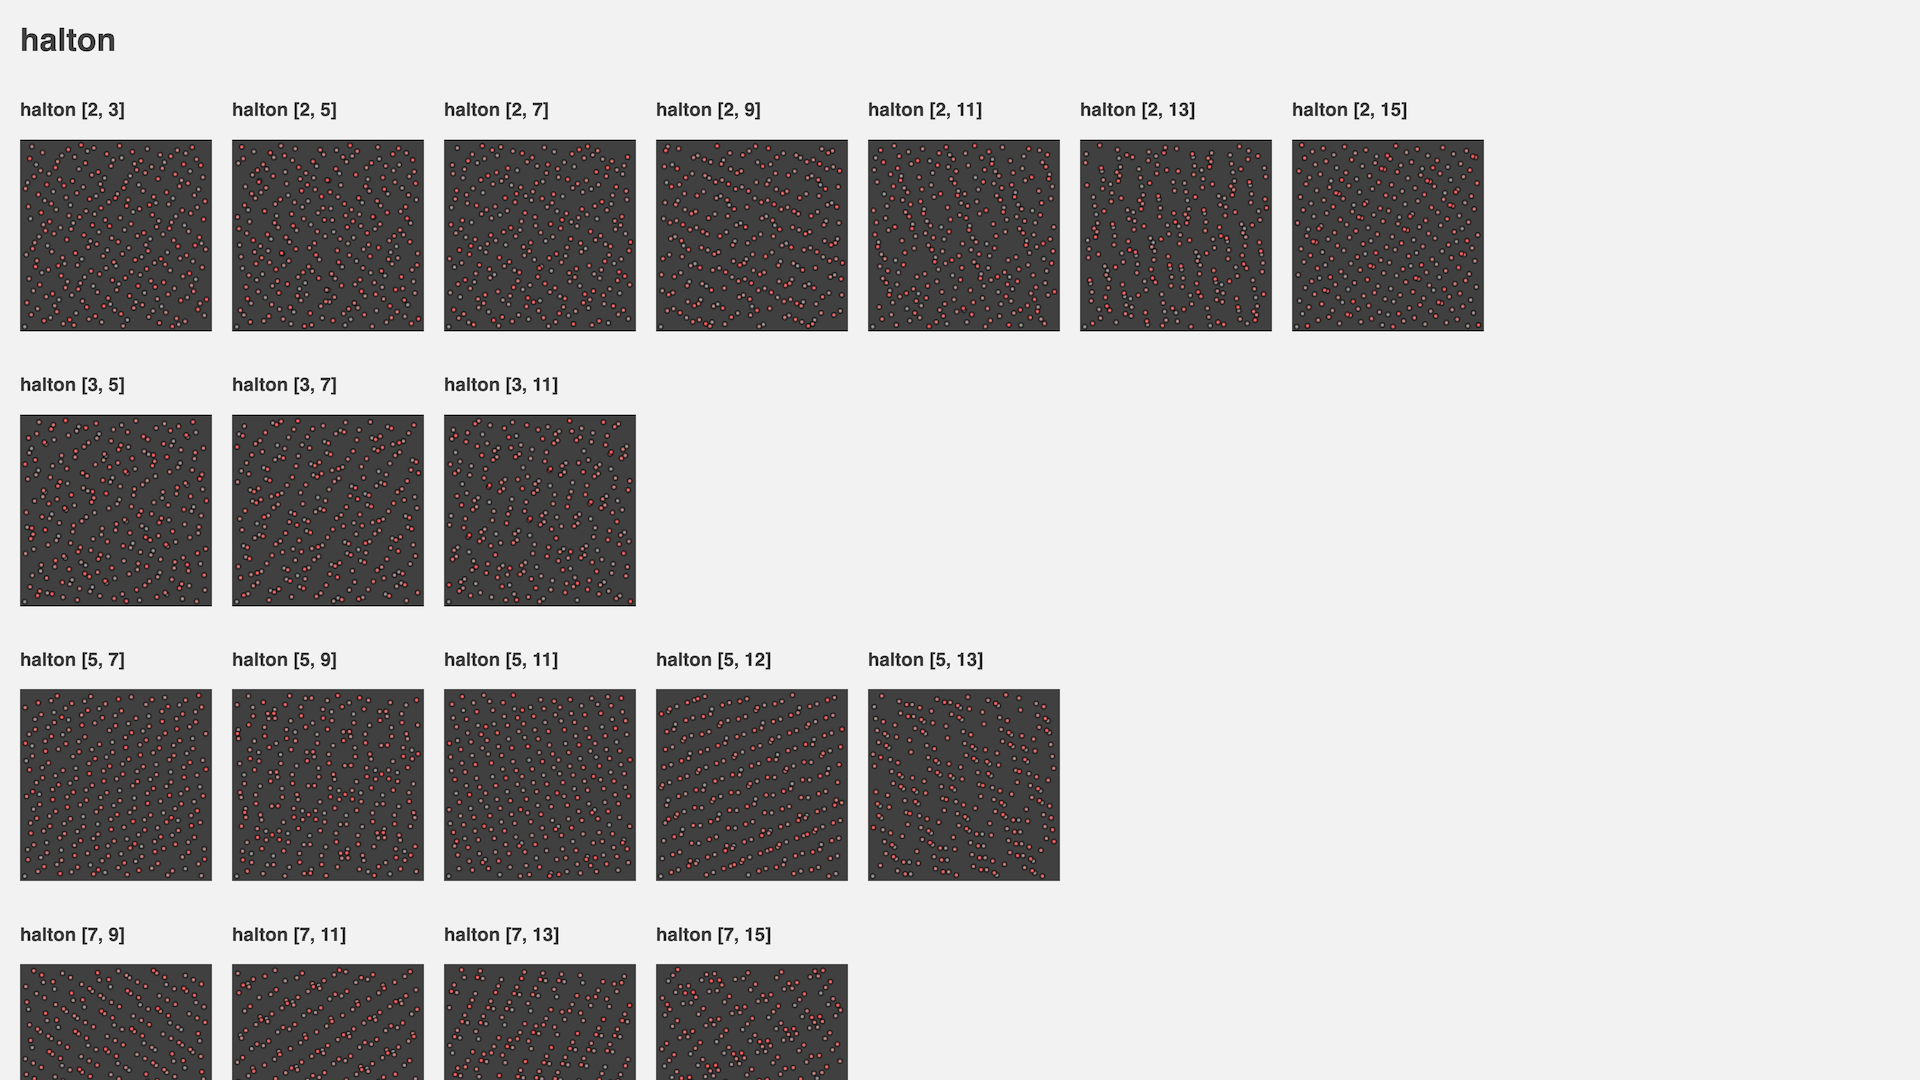
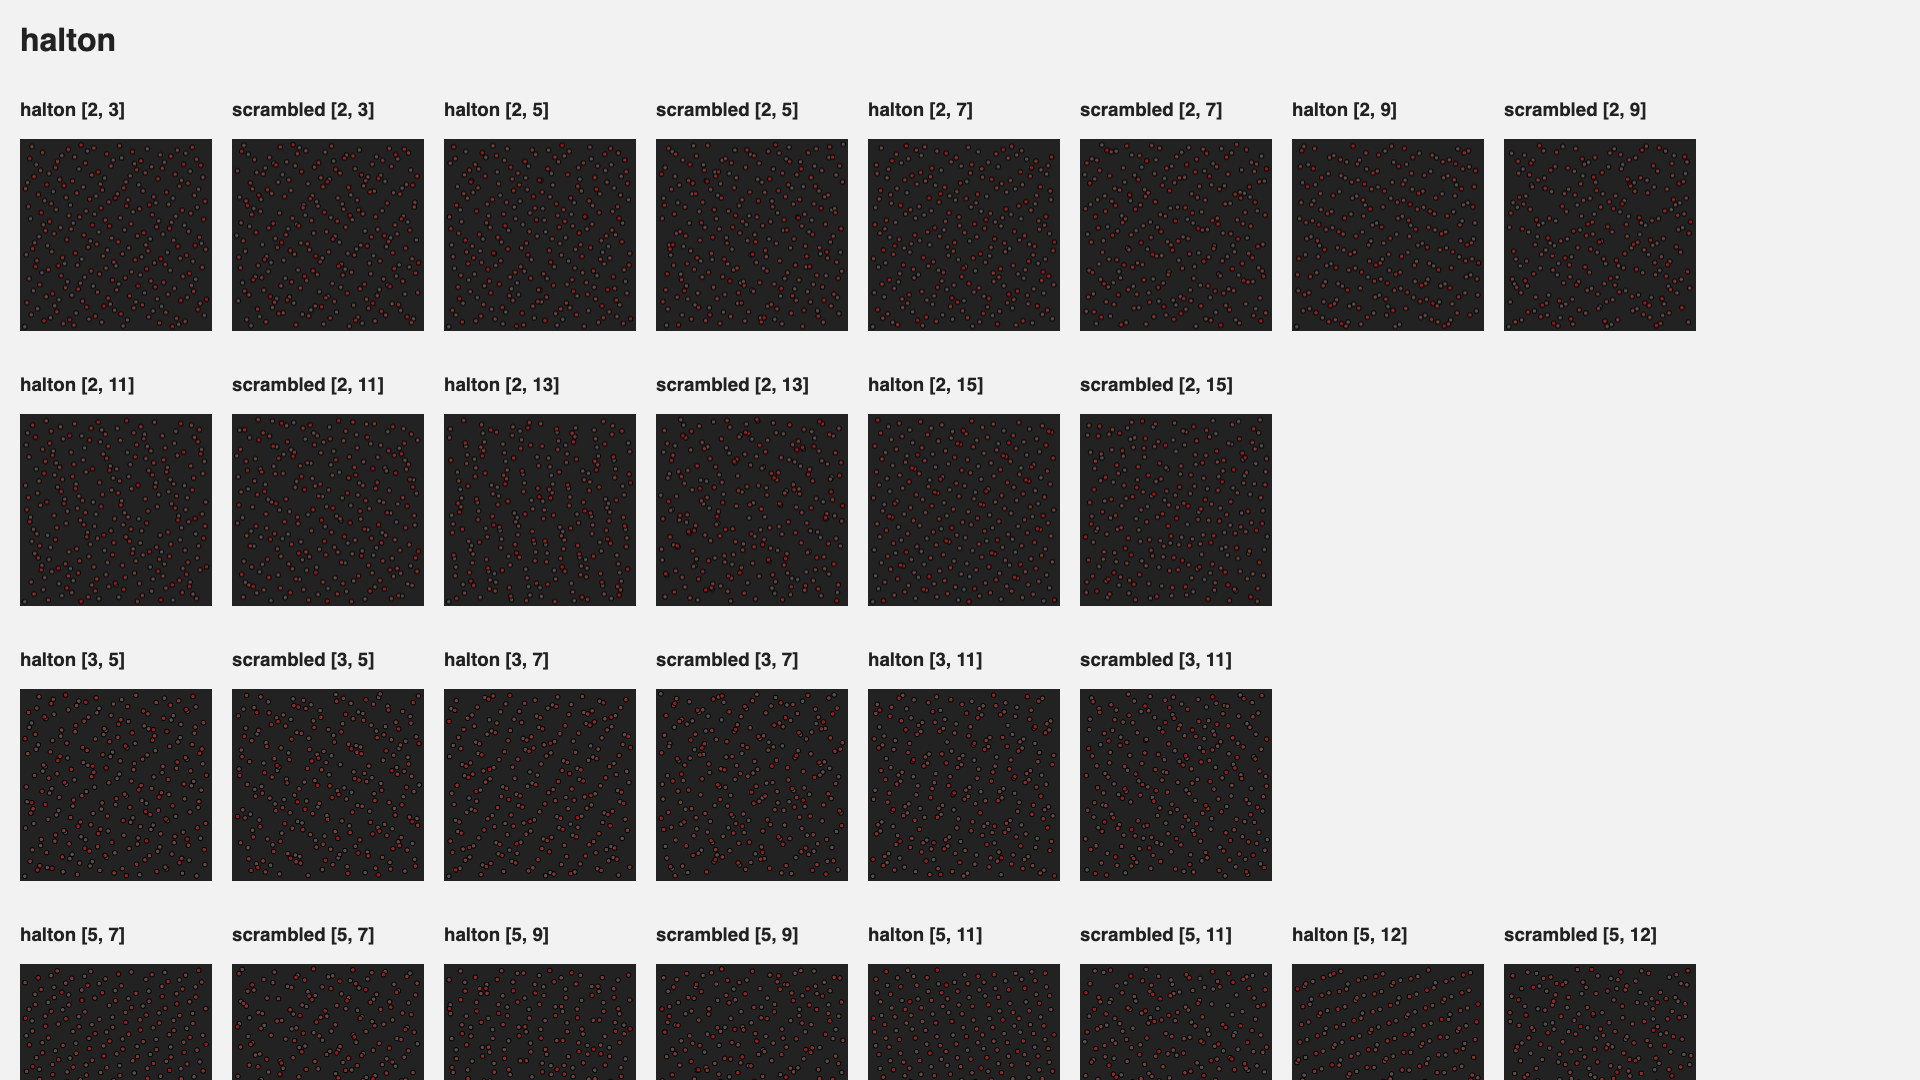
feat: add scrambled halton sequence with digit permutations
- add createPermutations and an optional permutation argument to haltonSequence/halton
- fix radical inverse rounding and support for indices above 32 bits

diff --git a/test/index.js b/test/index.js
@@ -1,0 +1,167 @@
+import test from "node:test";
+import assert from "node:assert";
+
+import halton, { haltonSequence, createPermutations } from "../index.js";
+
+// No intermediate rounding: only the final conversion to a double.
+const exactRadicalInverse = (index, base, permutation) => {
+  const b = BigInt(base);
+  let n = BigInt(index);
+  let numerator = 0n;
+  let denominator = 1n;
+
+  while (n > 0n) {
+    const digit = Number(n % b);
+    numerator =
+      numerator * b + BigInt(permutation ? permutation[digit] : digit);
+    denominator *= b;
+    n /= b;
+  }
+
+  if (!permutation) return Number(numerator) / Number(denominator);
+
+  return (
+    Number(numerator * (b - 1n) + BigInt(permutation[0])) /
+    Number(denominator * (b - 1n))
+  );
+};
+
+const mulberry32 = (seed) => () => {
+  seed = (seed + 0x6d2b79f5) | 0;
+  let t = Math.imul(seed ^ (seed >>> 15), 1 | seed);
+  t = (t + Math.imul(t ^ (t >>> 7), 61 | t)) ^ t;
+  return ((t ^ (t >>> 14)) >>> 0) / 4294967296;
+};
+
+const bases = [2, 3, 5, 7, 11, 13, 101];
+
+test("should return the first points with default bases", () => {
+  assert.deepStrictEqual(halton(4), [
+    [0, 0],
+    [0.5, 0.3333333333333333],
+    [0.25, 0.6666666666666666],
+    [0.75, 0.1111111111111111],
+  ]);
+});
+
+test("should generate count points of bases.length dimensions", () => {
+  const points = halton(10, [2, 3, 5]);
+  assert.strictEqual(points.length, 10);
+  for (const point of points) assert.strictEqual(point.length, 3);
+});
+
+test("should compute a correctly rounded radical inverse", () => {
+  for (const base of bases) {
+    for (let index = 0; index < 5000; index++) {
+      assert.strictEqual(
+        haltonSequence(index, base),
+        exactRadicalInverse(index, base),
+        `index ${index}, base ${base}`,
+      );
+    }
+  }
+});
+
+test("should support indices above 32 bits", () => {
+  for (const index of [2 ** 31, 3 * 2 ** 32 + 1, 2 ** 40 + 7]) {
+    for (const base of bases) {
+      assert.strictEqual(
+        haltonSequence(index, base),
+        exactRadicalInverse(index, base),
+        `index ${index}, base ${base}`,
+      );
+    }
+  }
+});
+
+test("should match the base 2 fast path", () => {
+  const points = halton(1024, [2]);
+  for (let index = 0; index < points.length; index++) {
+    assert.strictEqual(points[index][0], haltonSequence(index, 2));
+  }
+});
+
+test("should leave the sequence unchanged with identity permutations", () => {
+  const identities = bases.map((base) =>
+    Array.from({ length: base }, (_, digit) => digit),
+  );
+  assert.deepStrictEqual(halton(512, bases, identities), halton(512, bases));
+});
+
+test("should compute the scrambled radical inverse", () => {
+  const permutations = createPermutations(bases, mulberry32(1));
+  bases.forEach((base, i) => {
+    for (let index = 0; index < 5000; index++) {
+      const value = haltonSequence(index, base, permutations[i]);
+      const expected = exactRadicalInverse(index, base, permutations[i]);
+      assert.ok(
+        Math.abs(value - expected) <= Number.EPSILON,
+        `index ${index}, base ${base}: ${value} != ${expected}`,
+      );
+    }
+  });
+});
+
+test("should keep scrambled values in [0, 1)", () => {
+  // permutation[0] = base - 1 produces the largest values and hits the clamp.
+  for (const base of bases) {
+    const reversed = Array.from(
+      { length: base },
+      (_, digit) => base - 1 - digit,
+    );
+    for (let index = 0; index < 1000; index++) {
+      const value = haltonSequence(index, base, reversed);
+      assert.ok(value >= 0 && value < 1, `index ${index}, base ${base}`);
+    }
+  }
+});
+
+test("should scramble base 2 with a permutation", () => {
+  const points = halton(8, [2], [[1, 0]]);
+  for (let index = 1; index < points.length; index++) {
+    assert.strictEqual(points[index][0], 1 - haltonSequence(index, 2));
+  }
+});
+
+test("should preserve stratification when scrambled", () => {
+  const permutations = createPermutations(bases, mulberry32(2));
+  bases.slice(0, -1).forEach((base, i) => {
+    // The first base^k points are evenly spaced by base^-k.
+    const count = base ** Math.floor(Math.log(1000) / Math.log(base));
+    const values = halton(count, [base], [permutations[i]])
+      .map(([x]) => x)
+      .sort((a, b) => a - b);
+    for (let j = 1; j < count; j++) {
+      assert.ok(
+        Math.abs(values[j] - values[j - 1] - 1 / count) < 1e-12,
+        `base ${base}, point ${j}`,
+      );
+    }
+  });
+});
+
+test("should change the sequence when scrambled", () => {
+  const permutations = createPermutations([3, 5], mulberry32(3));
+  assert.notDeepStrictEqual(
+    halton(64, [3, 5], permutations),
+    halton(64, [3, 5]),
+  );
+});
+
+test("should create a valid permutation per base", () => {
+  const permutations = createPermutations(bases);
+  assert.strictEqual(permutations.length, bases.length);
+  bases.forEach((base, i) => {
+    assert.deepStrictEqual(
+      permutations[i].toSorted((a, b) => a - b),
+      Array.from({ length: base }, (_, digit) => digit),
+    );
+  });
+});
+
+test("should create deterministic permutations with a seeded random", () => {
+  assert.deepStrictEqual(
+    createPermutations(bases, mulberry32(4)),
+    createPermutations(bases, mulberry32(4)),
+  );
+});

diff --git a/index.js b/index.js
@@ -2,40 +2,87 @@
 
 import { radicalInverse } from "hammersley";
 
+// Largest double below 1: keeps scrambled values in [0, 1).
+const ONE_MINUS_EPSILON = 1 - Number.EPSILON / 2;
+
 /**
- * The Halton sequence algorithm.
- * @see [Wikipedia Halton_sequence]{@link https://en.wikipedia.org/wiki/Halton_sequence#Implementation}
+ * The Halton sequence algorithm (radical inverse), optionally scrambled with a
+ * digit permutation.
+ *
  * @param {number} index Index in the sequence.
  * @param {number} base An integer, preferably prime number.
+ * @param {number[]} [permutation] A permutation of the digits [0, base - 1]
+ *   applied to each digit.
  * @returns {number}
+ * @see [Wikipedia Halton_sequence]{@link https://en.wikipedia.org/wiki/Halton_sequence#Implementation}
+ * @see [PBR Book The Halton Sampler]{@link https://www.pbr-book.org/3ed-2018/Sampling_and_Reconstruction/The_Halton_Sampler}
  */
-function haltonSequence(index, base) {
-  let fraction = 1;
-  let result = 0;
+function haltonSequence(index, base, permutation) {
+  // Single division at the end for a correctly rounded result.
+  let reversedDigits = 0;
+  let baseN = 1;
 
   while (index > 0) {
-    fraction /= base;
-    result += fraction * (index % base);
-    index = ~~(index / base);
+    const next = Math.floor(index / base);
+    const digit = index - next * base;
+    reversedDigits =
+      reversedDigits * base + (permutation ? permutation[digit] : digit);
+    baseN *= base;
+    index = next;
   }
 
-  return result;
+  if (!permutation) return reversedDigits / baseN;
+
+  // Leading zeros are permuted too: add their infinite suffix (geometric series).
+  return Math.min(
+    (reversedDigits + permutation[0] / (base - 1)) / baseN,
+    ONE_MINUS_EPSILON,
+  );
 }
 
 /**
- * Generate n points of the Halton sequence in n-dimensions.
- * The "bases" parameter defines how many dimensions.
- * @alias module:halton.default
- * @param {number} count Number of points in the sequence to generate.
- * @param {number[]} [bases=[2, 3]] The bases for the Van der Corput operation. Best results with small coprime numbers.
+ * Create a random digit permutation for each base, to scramble the Halton
+ * sequence.
+ *
+ * @param {number[]} [bases=[2, 3]] The bases to create a permutation for.
+ * @param {function(): number} [random=Math.random] A random number generator
+ *   returning values in [0, 1).
  * @returns {number[][]}
  */
-const halton = (count, bases = [2, 3]) =>
+const createPermutations = (bases = [2, 3], random = Math.random) =>
+  bases.map((base) => {
+    const permutation = Array.from({ length: base }, (_, digit) => digit);
+
+    for (let i = base - 1; i > 0; i--) {
+      const j = Math.floor(random() * (i + 1));
+      [permutation[i], permutation[j]] = [permutation[j], permutation[i]];
+    }
+
+    return permutation;
+  });
+
+/**
+ * Generate n points of the Halton sequence in n-dimensions. The "bases"
+ * parameter defines how many dimensions. Pass "permutations" to scramble the
+ * sequence and break the regular patterns of higher bases.
+ *
+ * @param {number} count Number of points in the sequence to generate.
+ * @param {number[]} [bases=[2, 3]] The bases for the Van der Corput operation.
+ *   Best results with small coprime numbers.
+ * @param {number[][]} [permutations] A digit permutation per base. See
+ *   createPermutations.
+ * @returns {number[][]}
+ * @alias module:halton.default
+ */
+const halton = (count, bases = [2, 3], permutations) =>
   Array.from({ length: count }, (_, index) =>
-    bases.map((base) =>
-      base === 2 ? radicalInverse(index) : haltonSequence(index, base),
-    ),
+    bases.map((base, i) => {
+      const permutation = permutations?.[i];
+      return base === 2 && !permutation
+        ? radicalInverse(index)
+        : haltonSequence(index, base, permutation);
+    }),
   );
 
-export { haltonSequence };
+export { haltonSequence, createPermutations };
 export default halton;

diff --git a/index.html b/index.html
@@ -7,9 +7,9 @@
     <title>halton by Damien Seguin (https://github.com/dmnsgn)</title>
     <style>
       :root {
-        --color-dark: #404040;
+       --color-dark: #222222;
         --color-light: #f2f2f2;
-        --color-accent: #fd5e62;
+        --color-accent: #95171d;
         --result-size: 192px;
       }
 
@@ -45,8 +45,9 @@
     <script src="web_modules/import-map.json" type="importmap-shim"></script>
 
     <script type="module-shim">
-      import halton from "./index.js";
+      import halton, { createPermutations } from "./index.js";
       import hammersley from "hammersley";
+      import random from "pex-random";
 
       import canvasContext from "canvas-context";
 
@@ -56,6 +57,9 @@
       const halfSize = size / 2;
 
       const pointsCount = 256;
+
+      // Seeded for reproducible permutations across reloads.
+      const prng = random.create(1);
 
       const drawPoints = (title, points, newRow) => {
         const { context, canvas } = canvasContext("2d", {
@@ -102,8 +106,7 @@
         return containerElement;
       };
 
-      let baseX;
-      [
+      const basesList = [
         [2, 3],
         [2, 5],
         [2, 7],
@@ -123,16 +126,35 @@
         [7, 11],
         [7, 13],
         [7, 15],
-      ].forEach((bases) => {
-        const title = `halton [${bases[0]}, ${bases[1]}]`;
+      ];
+
+      const isIdentity = (permutation) =>
+        permutation.every((digit, index) => digit === index);
+
+      const drawHalton = (name, bases, permutations, newRow) => {
+        const title = `${name} [${bases[0]}, ${bases[1]}]`;
 
         console.time(title);
-        const points = halton(pointsCount, bases);
+        const points = halton(pointsCount, bases, permutations);
         console.timeEnd(title);
 
-        drawPoints(title, points, baseX !== bases[0]);
+        drawPoints(title, points, newRow);
+      };
 
-        [baseX] = bases;
+      basesList.forEach((bases, i) => {
+        drawHalton(
+          "halton",
+          bases,
+          undefined,
+          bases[0] !== basesList[i - 1]?.[0],
+        );
+
+        const permutations = createPermutations(bases, () => prng.float());
+
+        // Identity permutations leave the sequence unchanged.
+        if (!permutations.every(isIdentity)) {
+          drawHalton("scrambled", bases, permutations);
+        }
       });
 
       console.time("hammersley");

diff --git a/README.md b/README.md
@@ -16,7 +16,7 @@ Generate n points of the Halton sequence in n-dimensions.
 [![coinbase](https://img.shields.io/badge/donate-coinbase-informational?logo=coinbase)](https://commerce.coinbase.com/checkout/56cbdf28-e323-48d8-9c98-7019e72c97f3)
 [![twitter](https://img.shields.io/twitter/follow/dmnsgn?style=social)](https://twitter.com/dmnsgn)
 
-![](https://raw.githubusercontent.com/dmnsgn/halton/main/screenshot.png)
+[![halton screenshot](https://raw.githubusercontent.com/dmnsgn/halton/main/screenshot.png)](https://dmnsgn.github.io/halton/)
 
 ## Installation
 
@@ -35,6 +35,15 @@ const points = halton(pointsCount);
 // 1: [0.5, 0.3333333333333333]
 // 2: [0.25, 0.6666666666666666]
 // 3: [0.75, 0.1111111111111111]
+```
+
+Scramble the sequence with a digit permutation per base to break the regular patterns of higher bases:
+
+```js
+import halton, { createPermutations } from "halton";
+
+const bases = [11, 13];
+const points = halton(pointsCount, bases, createPermutations(bases));
 ```
 
 ## API
